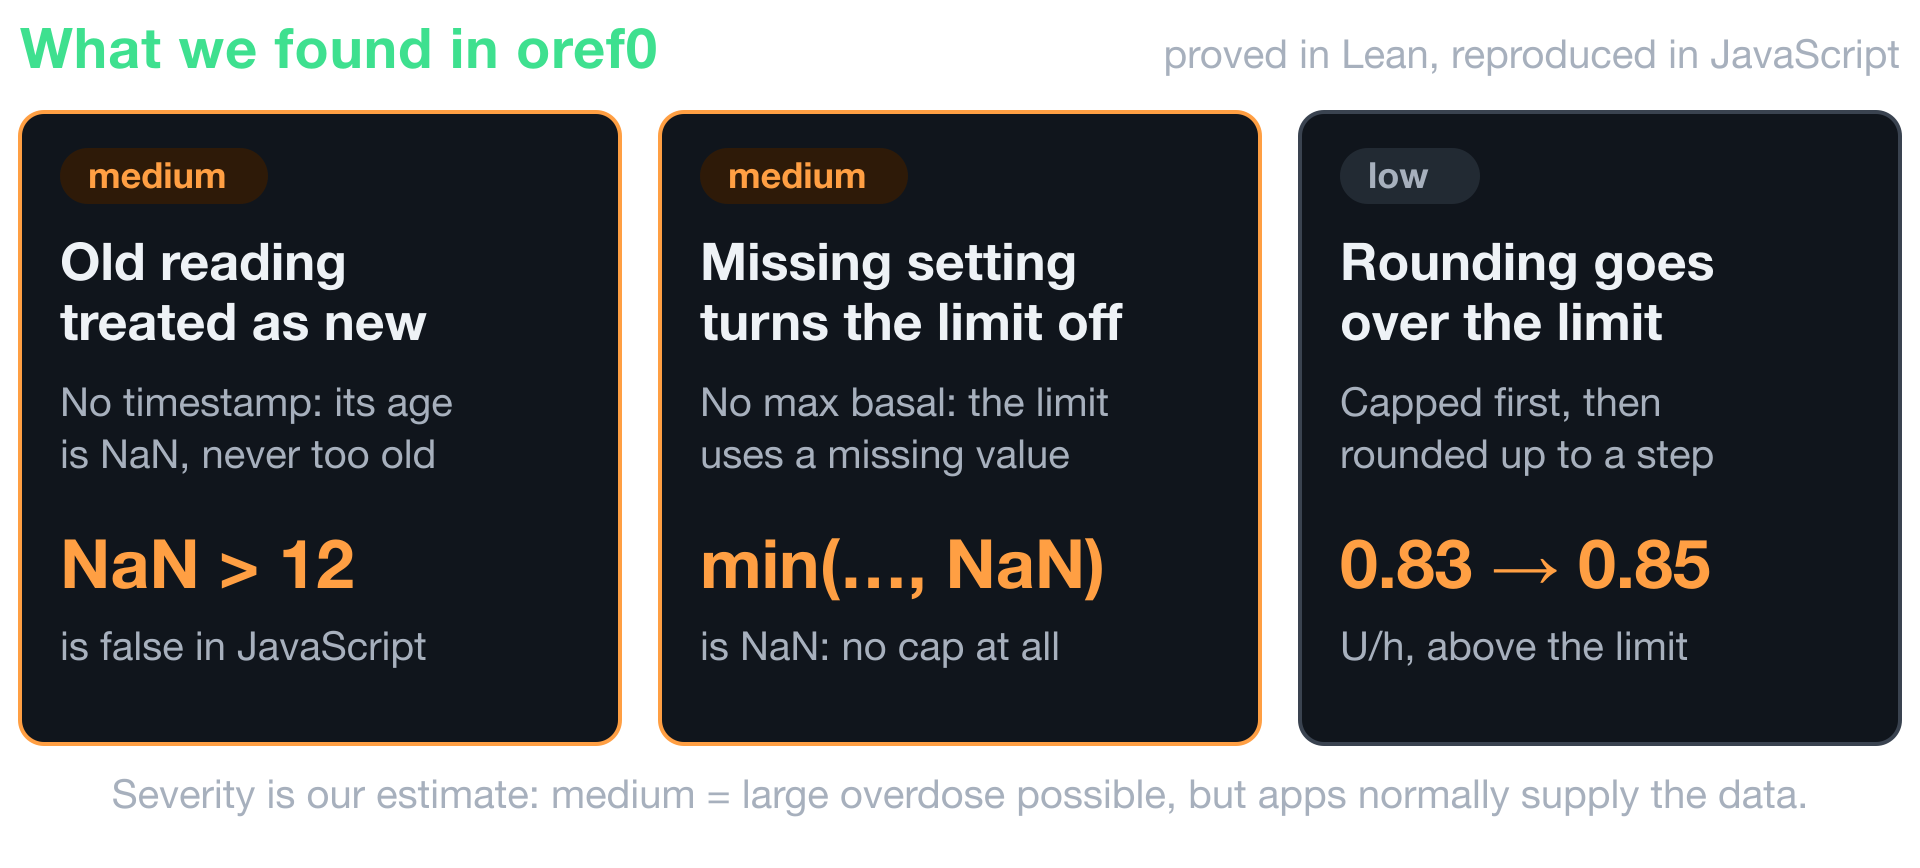
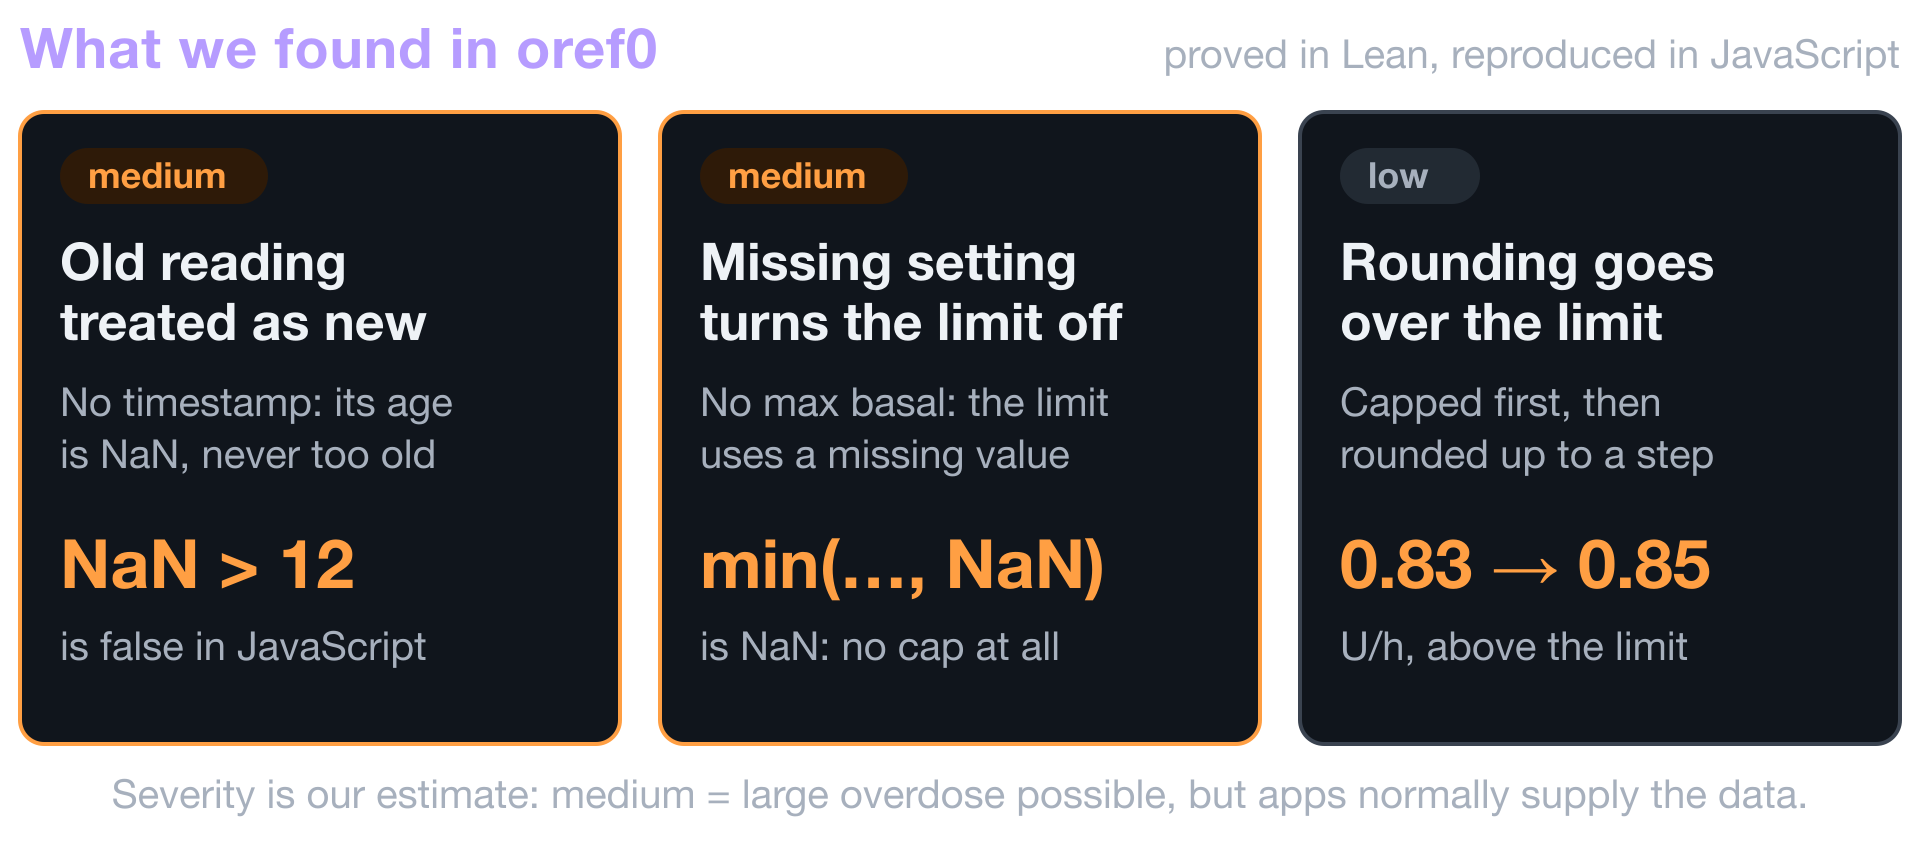
Compact slide: purple panel titles

Changed region(s): [[0.0, 0.0311, 0.3438, 0.0933]]

diff --git a/site/img/make_compact.py b/site/img/make_compact.py
@@ -35,7 +35,7 @@ STYLE = f"""
     .box {{ fill: {BOX}; stroke: {STROKE}; stroke-width: 2; }}
     .main {{ fill: {GREEN_FILL}; stroke: {GREEN}; stroke-width: 2.5; filter: url(#glow); }}
     .hot {{ fill: {BOX}; stroke: {ORANGE}; stroke-width: 2; }}
-    .h {{ font-size: 28px; font-weight: 700; fill: {GREEN}; letter-spacing: 0.5px; }}
+    .h {{ font-size: 28px; font-weight: 700; fill: #b69cff; letter-spacing: 0.5px; }}
     .t {{ font-size: 26px; font-weight: 700; }}
     .tg {{ font-size: 26px; font-weight: 700; fill: {GREEN}; }}
     .s {{ font-size: 20px; fill: {MUTED}; }}
